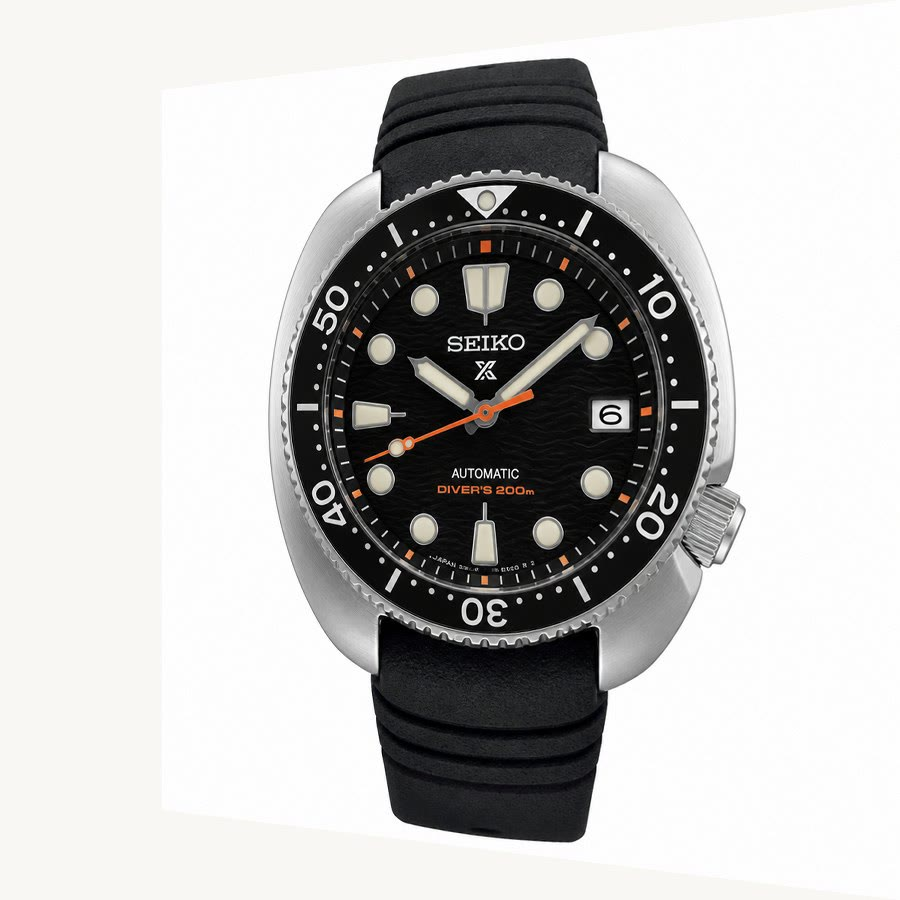
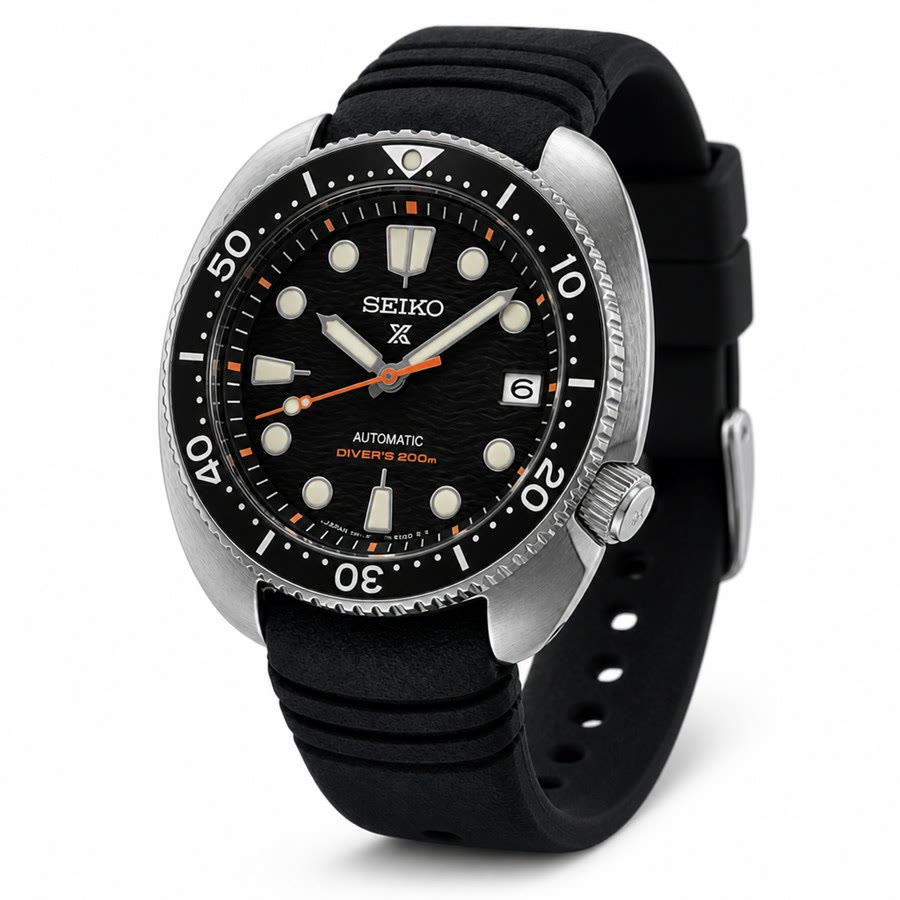
Add a dedicated Seiko Prospex 8-angle gallery
Give the turtle diver its own camera set so it no longer borrows
Rolex Submariner shots for any of the eight listing photos.

diff --git a/scripts/build_galleries.py b/scripts/build_galleries.py
@@ -25,6 +25,7 @@ KEEP_PACKS = {
     "gauri-heritage-moon",
     "rolex-yacht-master-40",
     "rolex-sea-dweller",
+    "seiko-prospex-diver",
     "rolex-submariner-date",
     "rolex-daytona",
     "rolex-datejust-36",
@@ -122,6 +123,7 @@ ANGLE_PREFIX = {
     "gauri-heritage-moon": "gauri-heritage",
     "rolex-yacht-master-40": "rolex-ym",
     "rolex-sea-dweller": "rolex-sd",
+    "seiko-prospex-diver": "seiko-prospex",
 }
 
 
